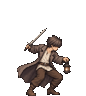
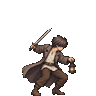
feat: [S-LOOK-PRINCIPLE] セインの武技の振りを作り直した GIF から取り込み、中割りを3コマ（f2・f3・f4）にする

diff --git a/src/ui/assets/art-manifest.ts b/src/ui/assets/art-manifest.ts
@@ -50,6 +50,7 @@ export const ART_FILES: readonly string[] = [
   "art/standing/hero-martial-follow.png",
   "art/standing/hero-martial-swing-1.png",
   "art/standing/hero-martial-swing-2.png",
+  "art/standing/hero-martial-swing-3.png",
   "art/standing/hero-martial.png",
   "art/standing/hero-mind-follow.png",
   "art/standing/hero-mind.png",
@@ -89,6 +90,7 @@ export const STANDING_HEIGHTS: Readonly<Record<string, number>> = {
   "art/standing/hero-martial-follow.png": 96,
   "art/standing/hero-martial-swing-1.png": 96,
   "art/standing/hero-martial-swing-2.png": 96,
+  "art/standing/hero-martial-swing-3.png": 96,
   "art/standing/hero-martial.png": 96,
   "art/standing/hero-mind-follow.png": 96,
   "art/standing/hero-mind.png": 96,

diff --git a/tools/genmaster/authoring/assets.js b/tools/genmaster/authoring/assets.js
@@ -101,7 +101,7 @@ const POSE_PHASES = [
 const POSED_OWNER_KINDS = ['HERO', 'ENEMY', 'CREATURE'];
 // 溜め（CHARGE）と中割り（SWING）を持つ構えの画と、中割りのコマの数。どちらも任意であり、ここに挙げた構えだけが持つ。
 // asset_id・variant・path は構えの画に _CHARGE・_SWING_<順> を添える（art/import.js が取り込み元の GIF から作る）。
-const MOTIONS = { ASSET_HERO_STANDING_MARTIAL: { swing: 2 } };
+const MOTIONS = { ASSET_HERO_STANDING_MARTIAL: { swing: 3 } };
 
 function poseRecord(base, pose, phase, name) {
   return {
